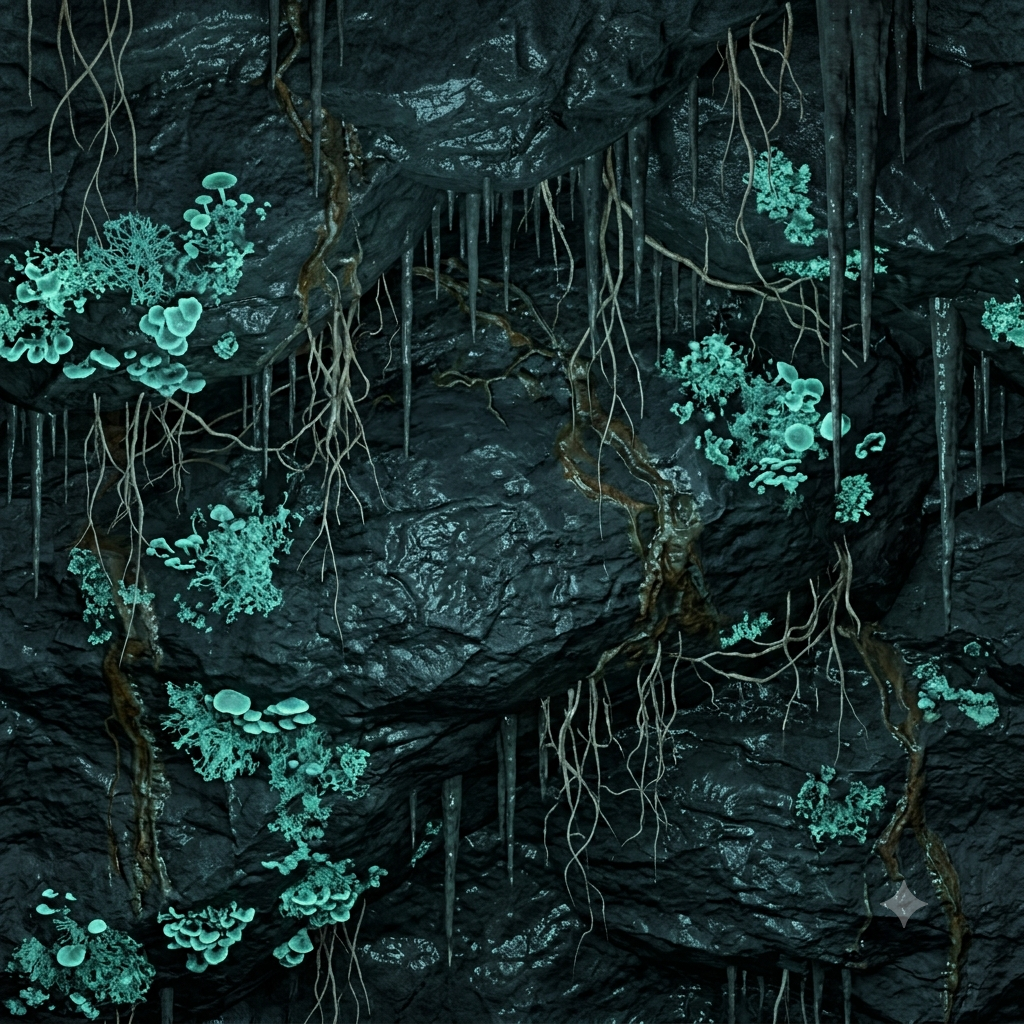
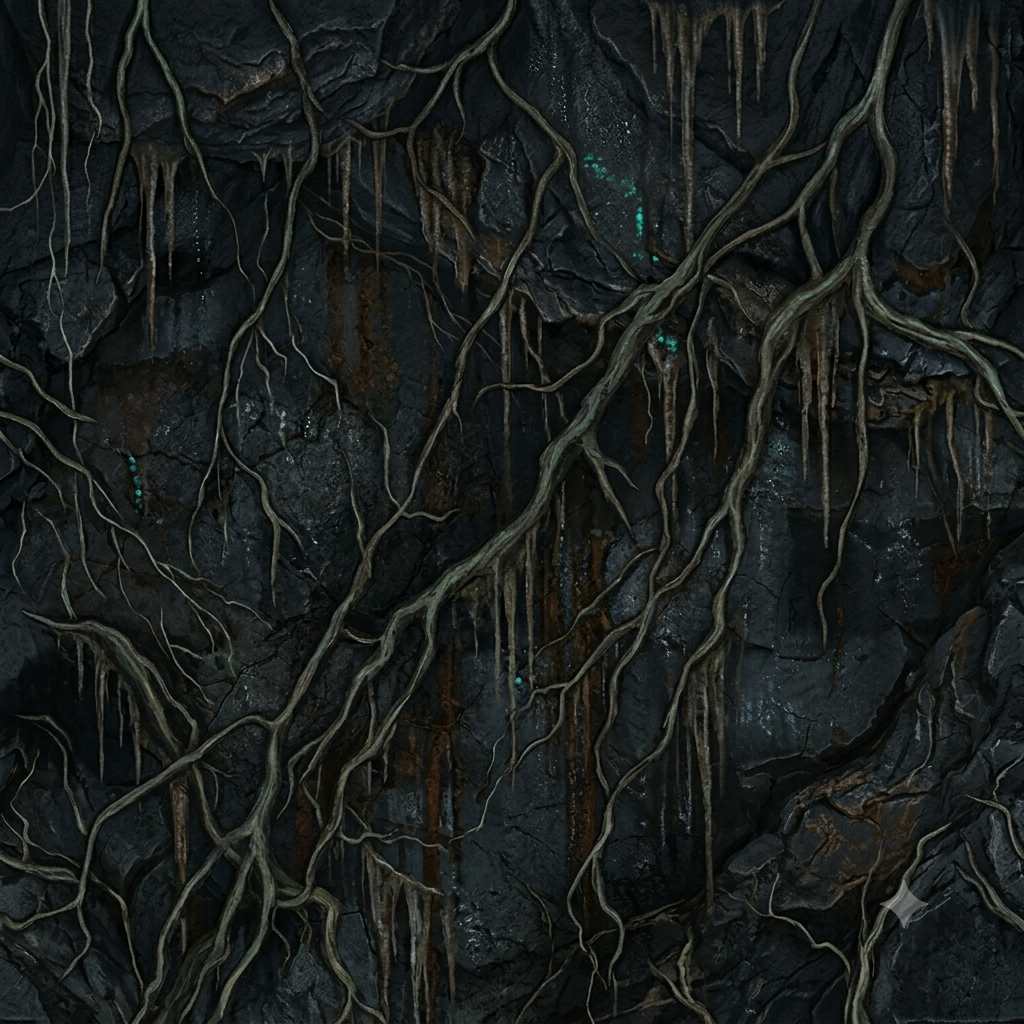
Ato II: integra as 3 variantes de parede + teto escuro novo
- tex_a2wall_1 (alvenaria cinza), tex_a2wall_2 (marrom/ocre com veios),
  tex_a2wall_3 (pedra escura musgosa) → a engine (glob A2WALL_PNG) distribui
  as três pelos painéis, acabando com o visual monocromático.
- tex_a2ceil novo (rocha escura natural, quase sem verde) — teto agora bem
  distinto das paredes.
- Com texturas já variadas, os tons do pool ficam SUAVES/neutros (só leve
  variação de brilho) p/ não descaracterizar a cor real de cada parede.

Verificado: corredores do Ato II com mistura de cinza/marrom/musgo e teto
escuro separado — bem menos repetitivo.

Claude-Session: https://claude.ai/code/session_013WvcxhCgG4YoQ53hJyUeUZ

diff --git a/grimhollow/src/game/Game.ts b/grimhollow/src/game/Game.ts
@@ -5431,9 +5431,12 @@ export class Game {
     // os corredores deixam de parecer "tudo a mesma cor". Suporta variantes de
     // textura (tex_a2wall_1..N.png) quando existirem; senão tinge a base.
     const a2WallVariants = A2WALL_PNG.length ? A2WALL_PNG : [texA2WallUrl];
-    // tons com CONTRASTE de valor (claro↔escuro) além de matiz — a variação de
-    // brilho quebra a repetição mesmo mantendo a mesma textura base.
-    const a2WallTints = [0xffffff, 0xd8dde0, 0x8b9498, 0xd9c8a8, 0x74838a, 0xb0a894, 0xa9b7bf];
+    // Com 3 texturas de parede JÁ variadas (cinza/marrom/musgo), os tons ficam
+    // SUAVES e quase neutros — só uma leve variação de brilho p/ dar profundidade,
+    // sem descaracterizar a cor real de cada textura. (Sem variantes, ainda ajuda.)
+    const a2WallTints = A2WALL_PNG.length
+      ? [0xffffff, 0xe6eaea, 0xc6cac8, 0xb4b8b6]
+      : [0xffffff, 0xd8dde0, 0x8b9498, 0xd9c8a8, 0x74838a, 0xb0a894];
     const a2WallPool: THREE.MeshStandardMaterial[] = a2
       ? a2WallVariants.flatMap((url, vi) =>
           a2WallTints.map((tint, ti) => this.pbrStone(url, `a2wall${vi}_${ti}`, { rough: 0.86, normal: 1.5, tint })))
